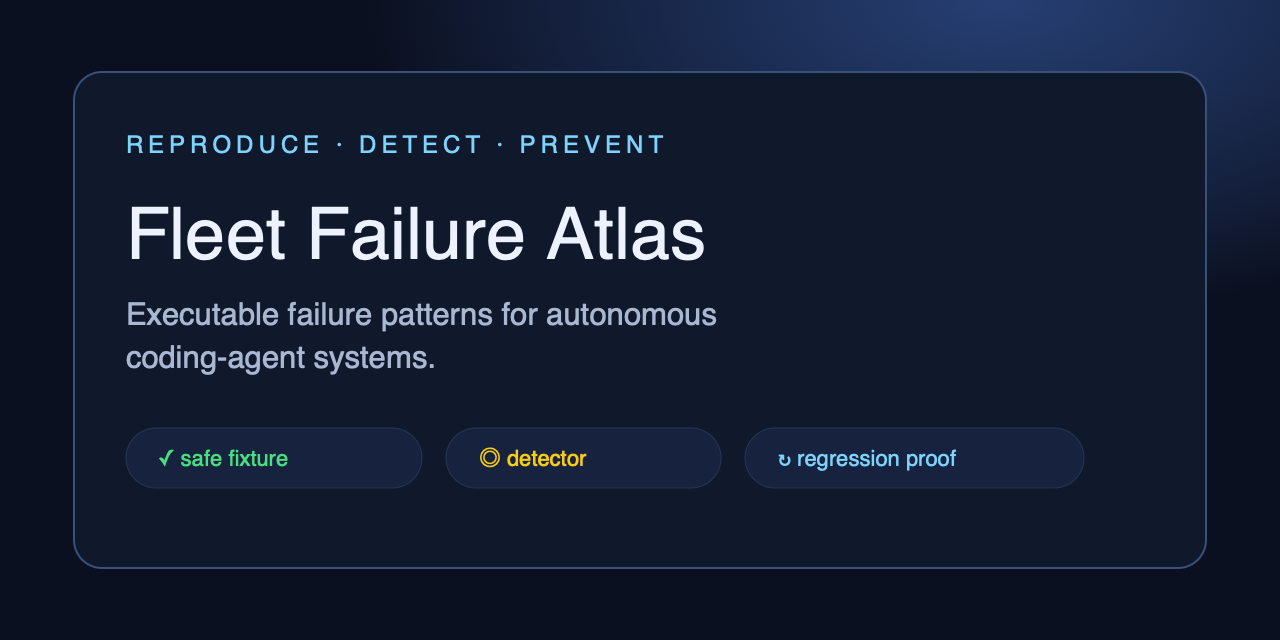
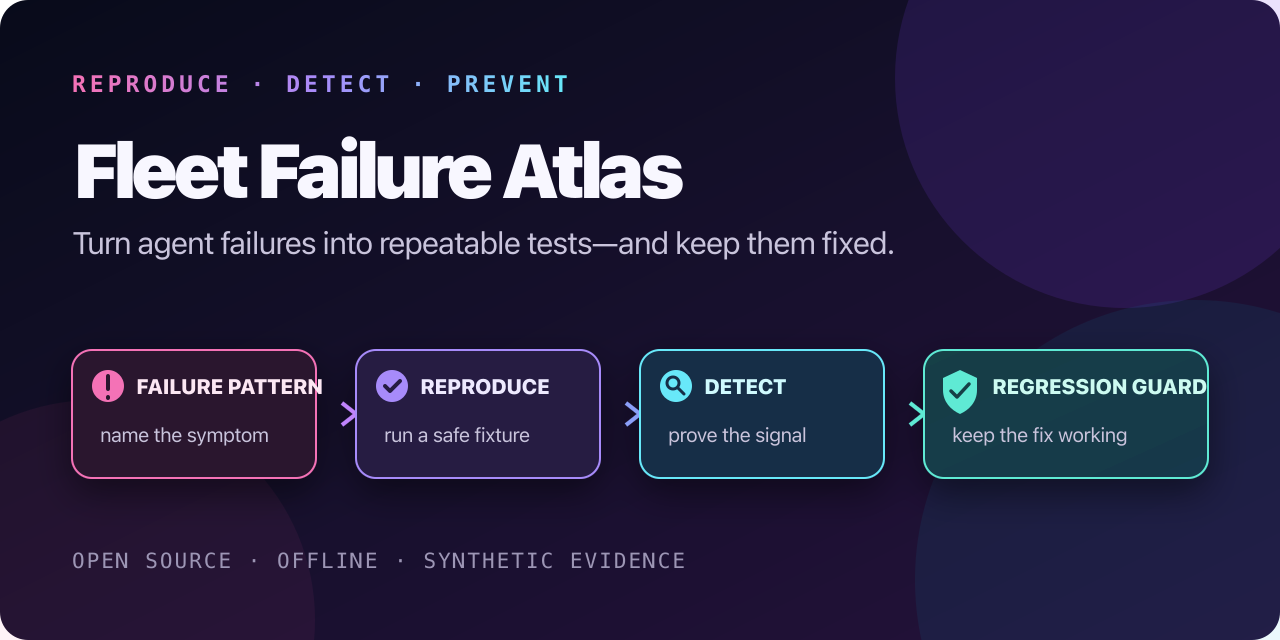
docs: add visual failure-to-guard guide (#4)

diff --git a/README.md b/README.md
@@ -5,6 +5,8 @@
 [![License: MIT](https://img.shields.io/badge/license-MIT-7dd3fc.svg)](LICENSE)
 [![Release](https://img.shields.io/github/v/release/korovin-aa97/fleet-failure-atlas)](https://github.com/korovin-aa97/fleet-failure-atlas/releases)
 
+[![Fleet Failure Atlas turns a failure pattern into a safe reproduction, a clear detector, and a regression guard](docs/assets/social-preview.svg)](https://korovin-aa97.github.io/fleet-failure-atlas/)
+
 An executable field guide to autonomous coding-agent failures: reproduce the
 symptom, detect it, repair the invariant, and keep it from returning.
 
